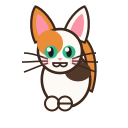
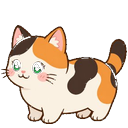
feat(assets): integrate user-generated Canva AI artwork for Mochi the Cat (standing, sleeping, scruff drag)

diff --git a/packages/pets/cat/generate_from_base.py b/packages/pets/cat/generate_from_base.py
@@ -1,0 +1,165 @@
+"""Process user-generated Canva AI Cat artwork into an animated desktop pet sprite set.
+
+Source images:
+- standing_isolated.png (282x223)
+- sleeping_isolated.png (277x152)
+- drag_isolated.png (290x292)
+
+Generates:
+- idle_1.png .. idle_4.png (breathing, blinking ^_^)
+- walk_left_1.png .. walk_left_4.png (4-frame articulated walking cycle facing LEFT)
+- walk_1.png .. walk_4.png (4-frame walking cycle facing RIGHT - flipped)
+- sleep_1.png .. sleep_3.png (sleeping loaf with floating Zzz)
+- drag.png (scruff-lifted dangling pose)
+Target size: 128x128 RGBA transparent PNGs.
+"""
+
+import os
+from PIL import Image, ImageDraw
+
+ASSETS_DIR = os.path.dirname(os.path.abspath(__file__)) + "/assets"
+STANDING_PATH = os.path.join(ASSETS_DIR, "standing_isolated.png")
+SLEEPING_PATH = os.path.join(ASSETS_DIR, "sleeping_isolated.png")
+DRAG_PATH = os.path.join(ASSETS_DIR, "drag_isolated.png")
+
+CANVAS_SIZE = (128, 128)
+C_OUTLINE = (60, 42, 32, 255)
+C_CREAM = (255, 247, 232, 255)
+
+
+def create_canvas() -> Image.Image:
+    return Image.new("RGBA", CANVAS_SIZE, (0, 0, 0, 0))
+
+
+def fit_on_canvas(img: Image.Image, max_w: int = 126, max_h: int = 110, y_offset: int = 0) -> Image.Image:
+    """Scale image to fit within max bounds and center at bottom with optional y_offset."""
+    w, h = img.size
+    scale = min(max_w / w, max_h / h)
+    new_w = int(w * scale)
+    new_h = int(h * scale)
+    scaled = img.resize((new_w, new_h), Image.Resampling.LANCZOS)
+
+    canvas = create_canvas()
+    # Place at horizontal center, bottom-aligned with margin
+    x = (CANVAS_SIZE[0] - new_w) // 2
+    y = CANVAS_SIZE[1] - new_h - 6 + y_offset
+    canvas.paste(scaled, (x, y), scaled)
+    return canvas
+
+
+def generate_cat_frames():
+    standing_raw = Image.open(STANDING_PATH).convert("RGBA")
+    sleeping_raw = Image.open(SLEEPING_PATH).convert("RGBA")
+    drag_raw = Image.open(DRAG_PATH).convert("RGBA")
+
+    w_s, h_s = standing_raw.size
+
+    # --- 1. IDLE FRAMES ---
+    print("Generating Mochi idle frames...")
+    # Idle 1: Base sitting/standing pose
+    idle_1 = fit_on_canvas(standing_raw)
+    idle_1.save(os.path.join(ASSETS_DIR, "idle_1.png"))
+
+    # Idle 2: Gentle breathing dip (-1.5px)
+    idle_2 = fit_on_canvas(standing_raw, y_offset=2)
+    idle_2.save(os.path.join(ASSETS_DIR, "idle_2.png"))
+
+    # Idle 3: Happy anime eye blink (^_^)
+    idle_3_raw = standing_raw.copy()
+    draw = ImageDraw.Draw(idle_3_raw)
+    # Left eye: (34, 99), Right eye: (80, 105)
+    # Cover emerald eyes with surrounding cream fur
+    draw.ellipse([27, 90, 41, 106], fill=C_CREAM)
+    draw.ellipse([73, 97, 87, 112], fill=C_CREAM)
+    # Draw smiling cat eye arcs
+    draw.arc([26, 92, 42, 104], start=180, end=360, fill=C_OUTLINE, width=3)
+    draw.arc([72, 98, 88, 110], start=180, end=360, fill=C_OUTLINE, width=3)
+    idle_3 = fit_on_canvas(idle_3_raw)
+    idle_3.save(os.path.join(ASSETS_DIR, "idle_3.png"))
+
+    # Idle 4: Return to neutral
+    idle_4 = fit_on_canvas(standing_raw, y_offset=1)
+    idle_4.save(os.path.join(ASSETS_DIR, "idle_4.png"))
+
+    # --- 2. ACTIVE WALKING STRIDE (4 frames) ---
+    print("Generating Mochi active walking frames with articulated legs...")
+    # Leg crop boxes in standing_raw (282x223)
+    fl_box = (38, 175, 78, 223)    # Front-left
+    fr_box = (78, 175, 118, 223)   # Front-right
+    bl_box = (175, 175, 218, 223)  # Back-left
+    br_box = (218, 175, 258, 223)  # Back-right
+
+    fl_crop = standing_raw.crop(fl_box)
+    fr_crop = standing_raw.crop(fr_box)
+    bl_crop = standing_raw.crop(bl_box)
+    br_crop = standing_raw.crop(br_box)
+
+    body_trunk = standing_raw.copy()
+    for box in [fl_box, fr_box, bl_box, br_box]:
+        for y in range(box[1] + 5, box[3]):
+            for x in range(box[0], box[2]):
+                body_trunk.putpixel((x, y), (0, 0, 0, 0))
+
+    def compose_walk(fl_angle: float, fr_angle: float, bl_angle: float, br_angle: float, bob_y: int) -> Image.Image:
+        frame = Image.new("RGBA", (w_s, h_s), (0, 0, 0, 0))
+        # Background legs
+        rot_fr = fr_crop.rotate(fr_angle, resample=Image.Resampling.BICUBIC, center=(fr_crop.width // 2, 4))
+        rot_bl = bl_crop.rotate(bl_angle, resample=Image.Resampling.BICUBIC, center=(bl_crop.width // 2, 4))
+        frame.paste(rot_fr, (fr_box[0], fr_box[1] + bob_y), rot_fr)
+        frame.paste(rot_bl, (bl_box[0], bl_box[1] + bob_y), rot_bl)
+
+        # Body
+        frame.paste(body_trunk, (0, bob_y), body_trunk)
+
+        # Foreground legs
+        rot_fl = fl_crop.rotate(fl_angle, resample=Image.Resampling.BICUBIC, center=(fl_crop.width // 2, 4))
+        rot_br = br_crop.rotate(br_angle, resample=Image.Resampling.BICUBIC, center=(br_crop.width // 2, 4))
+        frame.paste(rot_fl, (fl_box[0], fl_box[1] + bob_y), rot_fl)
+        frame.paste(rot_br, (br_box[0], br_box[1] + bob_y), rot_br)
+        return frame
+
+    # 4-frame stride
+    raw_w1 = compose_walk(fl_angle=12.0, fr_angle=-12.0, bl_angle=-10.0, br_angle=10.0, bob_y=-2)
+    raw_w2 = compose_walk(fl_angle=0.0, fr_angle=0.0, bl_angle=0.0, br_angle=0.0, bob_y=0)
+    raw_w3 = compose_walk(fl_angle=-12.0, fr_angle=12.0, bl_angle=10.0, br_angle=-10.0, bob_y=-2)
+    raw_w4 = compose_walk(fl_angle=0.0, fr_angle=0.0, bl_angle=0.0, br_angle=0.0, bob_y=0)
+
+    # Walk Left (Natural orientation - facing left)
+    for i, raw_frame in enumerate([raw_w1, raw_w2, raw_w3, raw_w4], start=1):
+        fitted = fit_on_canvas(raw_frame)
+        fitted.save(os.path.join(ASSETS_DIR, f"walk_left_{i}.png"))
+
+    # Walk Right (Flipped horizontally so it faces right while moving right)
+    for i, raw_frame in enumerate([raw_w1, raw_w2, raw_w3, raw_w4], start=1):
+        fitted = fit_on_canvas(raw_frame)
+        flipped = fitted.transpose(Image.Transpose.FLIP_LEFT_RIGHT)
+        flipped.save(os.path.join(ASSETS_DIR, f"walk_{i}.png"))
+
+    # --- 3. SLEEPING FRAMES ---
+    print("Generating Mochi sleeping loaf frames...")
+    # Sleep 1: Natural sleeping loaf
+    sleep_1 = fit_on_canvas(sleeping_raw, max_h=95, y_offset=0)
+    sleep_1.save(os.path.join(ASSETS_DIR, "sleep_1.png"))
+
+    # Sleep 2: Breathing up (+2px) with cute floating 'Z'
+    sleep_2 = fit_on_canvas(sleeping_raw, max_h=95, y_offset=-2)
+    draw_s2 = ImageDraw.Draw(sleep_2)
+    draw_s2.text((85, 20), "z", fill=(80, 110, 180, 220))
+    sleep_2.save(os.path.join(ASSETS_DIR, "sleep_2.png"))
+
+    # Sleep 3: Floating 'Zz'
+    sleep_3 = fit_on_canvas(sleeping_raw, max_h=95, y_offset=-1)
+    draw_s3 = ImageDraw.Draw(sleep_3)
+    draw_s3.text((88, 14), "Zz", fill=(80, 110, 180, 240))
+    sleep_3.save(os.path.join(ASSETS_DIR, "sleep_3.png"))
+
+    # --- 4. DRAG / LIFTED POSE ---
+    print("Generating Mochi scruff-lifted drag frame...")
+    drag_img = fit_on_canvas(drag_raw, max_w=124, max_h=124, y_offset=-3)
+    drag_img.save(os.path.join(ASSETS_DIR, "drag.png"))
+
+    print(f"All Mochi animation frames generated at {CANVAS_SIZE[0]}x{CANVAS_SIZE[1]} in {ASSETS_DIR}!")
+
+
+if __name__ == "__main__":
+    generate_cat_frames()

diff --git a/tests/test_registry.py b/tests/test_registry.py
@@ -147,3 +147,4 @@ def test_registry_rejects_invalid_semver(tmp_path):
 
     with pytest.raises(ManifestValidationError, match="Invalid semantic version"):
         PetRegistry.load_and_validate_package(str(pkg_dir))
+

diff --git a/tests/test_manager.py b/tests/test_manager.py
@@ -82,3 +82,4 @@ def test_hide_and_show(manager):
 
     manager.show_instance(cat.instance_id)
     assert cat.is_visible is True
+

diff --git a/critter/core/registry.py b/critter/core/registry.py
@@ -212,3 +212,4 @@ class PetRegistry:
             movement=movement,
             package_dir=resolved_pkg_dir,
         )
+

diff --git a/packages/pets/cat/generate_assets.py b/packages/pets/cat/generate_assets.py
@@ -532,3 +532,4 @@ def generate_all():
 
 if __name__ == "__main__":
     generate_all()
+
